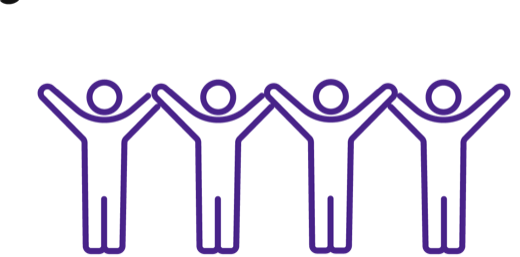
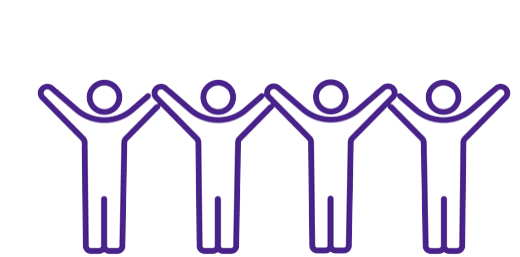
fix: update sub-04/05/07 links and swap main video items
- sub-04: fix CTA wording spacing (재난안전인증 제품 보러가기)
- sub-05: point 신기술 CTA to the new-tech list page
- sub-07: use the given MOIS URL for the award-winners link
- main: replace the first two videos (안전산업박람회, 한국관 쇼츠) with new thumbnails
- update sub11-ic2.png

diff --git a/index.html b/index.html
@@ -205,14 +205,14 @@
                 <div class="video-carousel" id="information-video" data-video-carousel>
                     <div class="video-track" data-video-track>
                         <article class="video-card is-active" data-video-index="0">
-                            <a href="https://www.youtube.com/watch?v=n3lyWMnvX3k" target="_blank"
+                            <a href="https://www.youtube.com/watch?v=LoTzcPKxSCo" target="_blank"
                                 rel="noopener noreferrer" aria-label="첫 번째 유튜브 영상 보기">
                                 <img src="contents/main_video_1.jpg" alt="첫 번째 유튜브 영상 썸네일">
                                 <span class="video-play" aria-hidden="true"></span>
                             </a>
                         </article>
                         <article class="video-card" data-video-index="1">
-                            <a href="https://www.youtube.com/shorts/LAbcPElDT4o" target="_blank"
+                            <a href="https://www.youtube.com/shorts/YRRR4VTbJ6Y" target="_blank"
                                 rel="noopener noreferrer" aria-label="두 번째 유튜브 영상 보기">
                                 <img src="contents/main_video_2.jpg" alt="두 번째 유튜브 영상 썸네일">
                                 <span class="video-play" aria-hidden="true"></span>

diff --git a/sub-07.html b/sub-07.html
@@ -61,7 +61,7 @@
                             <div class="sub07-key">
                                 <span class="sub07-keytag">Key Signal</span>
                                 <p>민간의 우수 안전기술이 신뢰를 얻으면서 시장 확산과 추가 투자 유치로 이어질 발판을 마련해요.</p>
-                                <a class="sub07-keylink" href="https://www.mois.go.kr/frt/bbs/type002/commonSelectBoardArticle.do?bbsId=BBSMSTR_000000000205&amp;nttId=129537" target="_blank" rel="noopener noreferrer">안전기술대상 수상작 보러가기<span aria-hidden="true"></span></a>
+                                <a class="sub07-keylink" href="https://mois.go.kr/frt/bbs/type002/commonSelectBoardArticle.do?bbsId=BBSMSTR_000000000205&amp;nttId=129537" target="_blank" rel="noopener noreferrer">안전기술대상 수상작 보러가기<span aria-hidden="true"></span></a>
                             </div>
                         </div>
                         <img src="contents/sub7-2.png" alt="트로피와 드론, 수상로봇, 공장 설비 일러스트" loading="lazy">

diff --git a/sub-05.html b/sub-05.html
@@ -111,7 +111,7 @@
                             <tr><th scope="row">주식회사 다음이앤씨 외 3건</th><td>콘크리트 구조물 우각부에서 전단강화 임베디드너트 전단연결재와 프리플렉스 강재를 이용한 보강공법</td></tr>
                         </tbody>
                     </table>
-                    <a class="sub04-cta" href="https://www.ksis.go.kr/main/index.do" target="_blank" rel="noopener noreferrer">재난안전신기술 보러가기<span aria-hidden="true"></span></a>
+                    <a class="sub04-cta" href="https://www.ksis.go.kr/net/issuMgr/list/netContentsList.do" target="_blank" rel="noopener noreferrer">재난안전신기술 보러가기<span aria-hidden="true"></span></a>
                 </section>
             </div>
         </article>

diff --git a/sub-04.html b/sub-04.html
@@ -114,7 +114,7 @@
                             <tr><th scope="row">(주)미산이앤씨</th><td>바이오탄소 100% 기반 고기능성 수계 세정제</td></tr>
                         </tbody>
                     </table>
-                    <a class="sub04-cta" href="https://www.ksis.go.kr/institution/dstsfpd/list/dstsfpdContentsList.do" target="_blank" rel="noopener noreferrer">재난안전 인증제품 보러가기<span aria-hidden="true"></span></a>
+                    <a class="sub04-cta" href="https://www.ksis.go.kr/institution/dstsfpd/list/dstsfpdContentsList.do" target="_blank" rel="noopener noreferrer">재난안전인증 제품 보러가기<span aria-hidden="true"></span></a>
                 </section>
             </div>
         </article>
